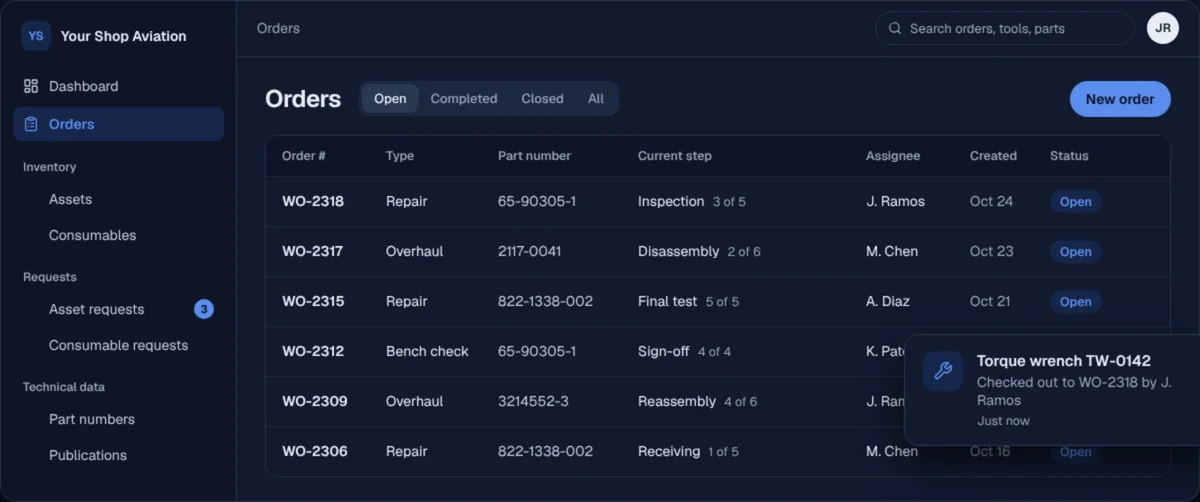
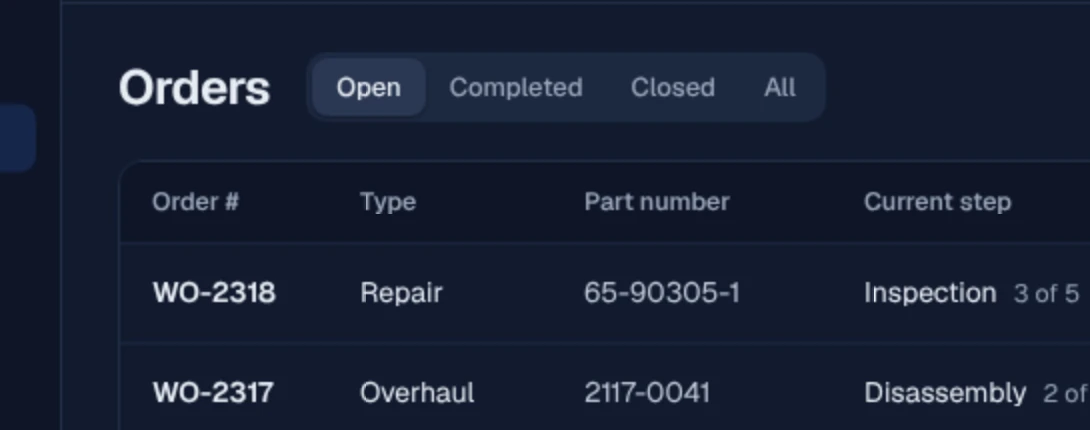
SkyVault card: readable product crop, proper phone frame
- The desktop screen was the whole 1200px app shrunk ~5x (unreadable).
  It's now a 2x crop of the Orders heading, tabs, columns and first rows,
  pinned to the frame's width so it keeps the same scale at every size.
- The phone was a flat black slab cropped by the frame. It's now sized by
  height so it always fits, with a brushed-metal rim, slim bezel, side
  buttons, a visible dynamic island with camera dot, and a glass glare.

Claude-Session: https://claude.ai/code/session_01VC16346eymkJY2U4srLLXH

diff --git a/src/journey/Journey.css b/src/journey/Journey.css
@@ -474,22 +474,41 @@ body {
 
 /* real screenshots in the browser / phone frames */
 .j-shot-pair .j-mock-browser { display: flex; flex-direction: column; }
-.j-shot-pair .j-mock-browser img { flex: 1; min-height: 0; width: 100%; object-fit: cover; object-position: left top; display: block; }
-/* a phone in a real device frame: black bezel, dynamic island, status bar */
+/* full frame width, pinned to the top: same scale at every card size (no zooming into the table) */
+.j-shot-pair .j-mock-browser img { flex: none; width: 100%; height: auto; display: block; }
+.j-shot-pair .j-mock-browser { background: #0f1729; }
+/* a phone in a real device frame: brushed-metal rim, slim black bezel, side buttons, dynamic island, glass glare.
+   Sized by HEIGHT so the whole phone always fits in the shot */
 .j-device {
-  position: absolute; right: 7%; top: 18%; width: 25%; aspect-ratio: 9 / 19.5; box-sizing: border-box; padding: 3.5%;
-  border-radius: 18% / 8.5%; background: #05070b; container-type: inline-size;
-  box-shadow: 0 0 0 1px rgba(255, 255, 255, 0.16), 0 14px 32px rgba(0, 0, 0, 0.6);
+  position: absolute; right: 6%; bottom: 7%; height: 86%; aspect-ratio: 9 / 19.5; box-sizing: border-box; padding: 1.5px;
+  border-radius: 17% / 7.8%; container-type: inline-size;
+  background: linear-gradient(150deg, #6b7383 0%, #262b35 22%, #11141a 50%, #2b303a 78%, #5e6575 100%);
+  box-shadow: 0 16px 34px rgba(0, 0, 0, 0.65), 0 2px 6px rgba(0, 0, 0, 0.5);
 }
-.j-device-screen { position: relative; height: 100%; border-radius: 14% / 6.6%; overflow: hidden; background: #111a2e; display: flex; flex-direction: column; }
+/* side buttons: action + volume on the left, power on the right */
+.j-device::before, .j-device::after { content: ''; position: absolute; width: 1.5px; border-radius: 1px; background: #3a404c; }
+.j-device::before { left: -1px; top: 20%; height: 9%; box-shadow: 0 calc(6cqw + 9cqh) 0 #3a404c; }
+.j-device::after { right: -1px; top: 27%; height: 13%; }
+.j-device-screen {
+  position: relative; height: 100%; box-sizing: border-box; border: 3px solid #020305; border-radius: 15% / 6.9%;
+  overflow: hidden; background: #111a2e; display: flex; flex-direction: column;
+}
+/* faint glass reflection across the display */
+.j-device-screen::after {
+  content: ''; position: absolute; inset: 0; pointer-events: none;
+  background: linear-gradient(115deg, rgba(255, 255, 255, 0.09) 0%, rgba(255, 255, 255, 0.02) 32%, transparent 33%);
+}
 .j-device-status {
-  position: relative; flex: none; height: 9%; display: flex; align-items: center; justify-content: space-between; padding: 0 9%;
-  font: 600 7cqw/1 var(--j-mono); color: #e8eefc; /* scales with the phone */
+  position: relative; flex: none; height: 11cqw; display: flex; align-items: center; justify-content: space-between; padding: 0 10cqw 0 12cqw;
+  font: 600 6.5cqw/1 var(--j-mono); color: #e8eefc; /* scales with the phone */
 }
-.j-device-island { position: absolute; left: 50%; top: 24%; width: 30%; height: 46%; transform: translateX(-50%); border-radius: 99px; background: #000; }
+.j-device-island {
+  position: absolute; left: 50%; top: 2.6cqw; width: 30cqw; height: 8.5cqw; transform: translateX(-50%); border-radius: 99px;
+  background: radial-gradient(circle at 78% 50%, #1f2a44 0 1.6cqw, #000 1.9cqw);
+}
 .j-device-icons { display: flex; align-items: flex-end; gap: 0.8cqw; }
-.j-device-icons b { width: 1.6cqw; background: #e8eefc; border-radius: 1px; }
-.j-device-icons b:nth-child(1) { height: 2.4cqw; } .j-device-icons b:nth-child(2) { height: 3.6cqw; } .j-device-icons b:nth-child(3) { height: 4.8cqw; }
+.j-device-icons b { width: 1.5cqw; background: #e8eefc; border-radius: 1px; }
+.j-device-icons b:nth-child(1) { height: 2.2cqw; } .j-device-icons b:nth-child(2) { height: 3.4cqw; } .j-device-icons b:nth-child(3) { height: 4.6cqw; }
 /* the app's screen sits at the top at full width; the rest of the display is the app's empty background */
 .j-device-screen img { width: 100%; height: auto; display: block; }
 
